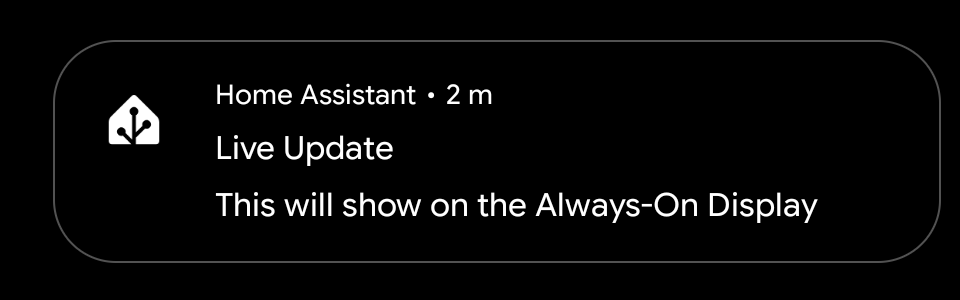
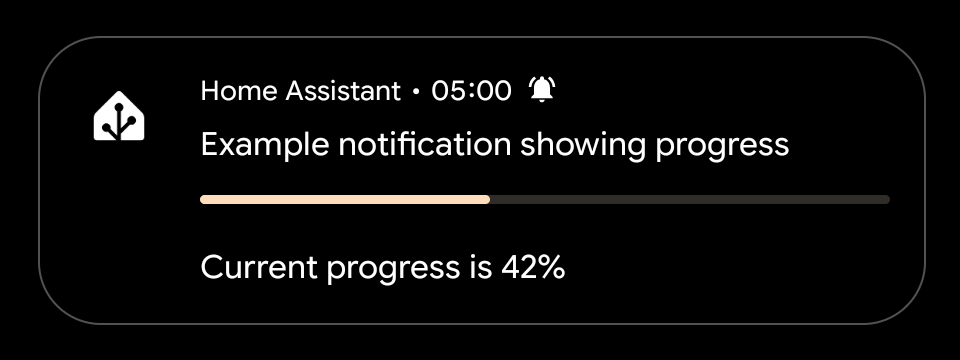
Replace Live Updates screenshot

diff --git a/docs/notifications/basic.md b/docs/notifications/basic.md
@@ -617,7 +617,7 @@ automation:
             progress_max: 32
 ```
 
-### Live Updates (BETA)
+### Live Updates <span class='beta'>BETA</span>
 
 On Android 16.0+ you can create "Live Updates" notifications. These notifications are pinned to the top of the notification shade and appear on the lockscreen and Always-On Display. They will also display as a chip in the status bar with an optional short text. This might vary by manufacturer.
 
@@ -629,7 +629,7 @@ For the notification to display as a "Live Updates" notification, `title` must b
 These screenshots show how the notifications will display in the statusbar (with or without critical text) and the Always-On Display.
 ![Status bar chip](/assets/android/live_updates_without_critical_text.png)
 ![Status bar chip when using critical text](/assets/android/live_updates_with_critical_text.png)
-![Notification appearance on Always-On Display](/assets/android/live_updates_always_on_display.png)
+![Example notification showing progress on Always-On Display](/assets/android/live_updates_always_on_display.png)
 
 #### Minimal configuration
 
